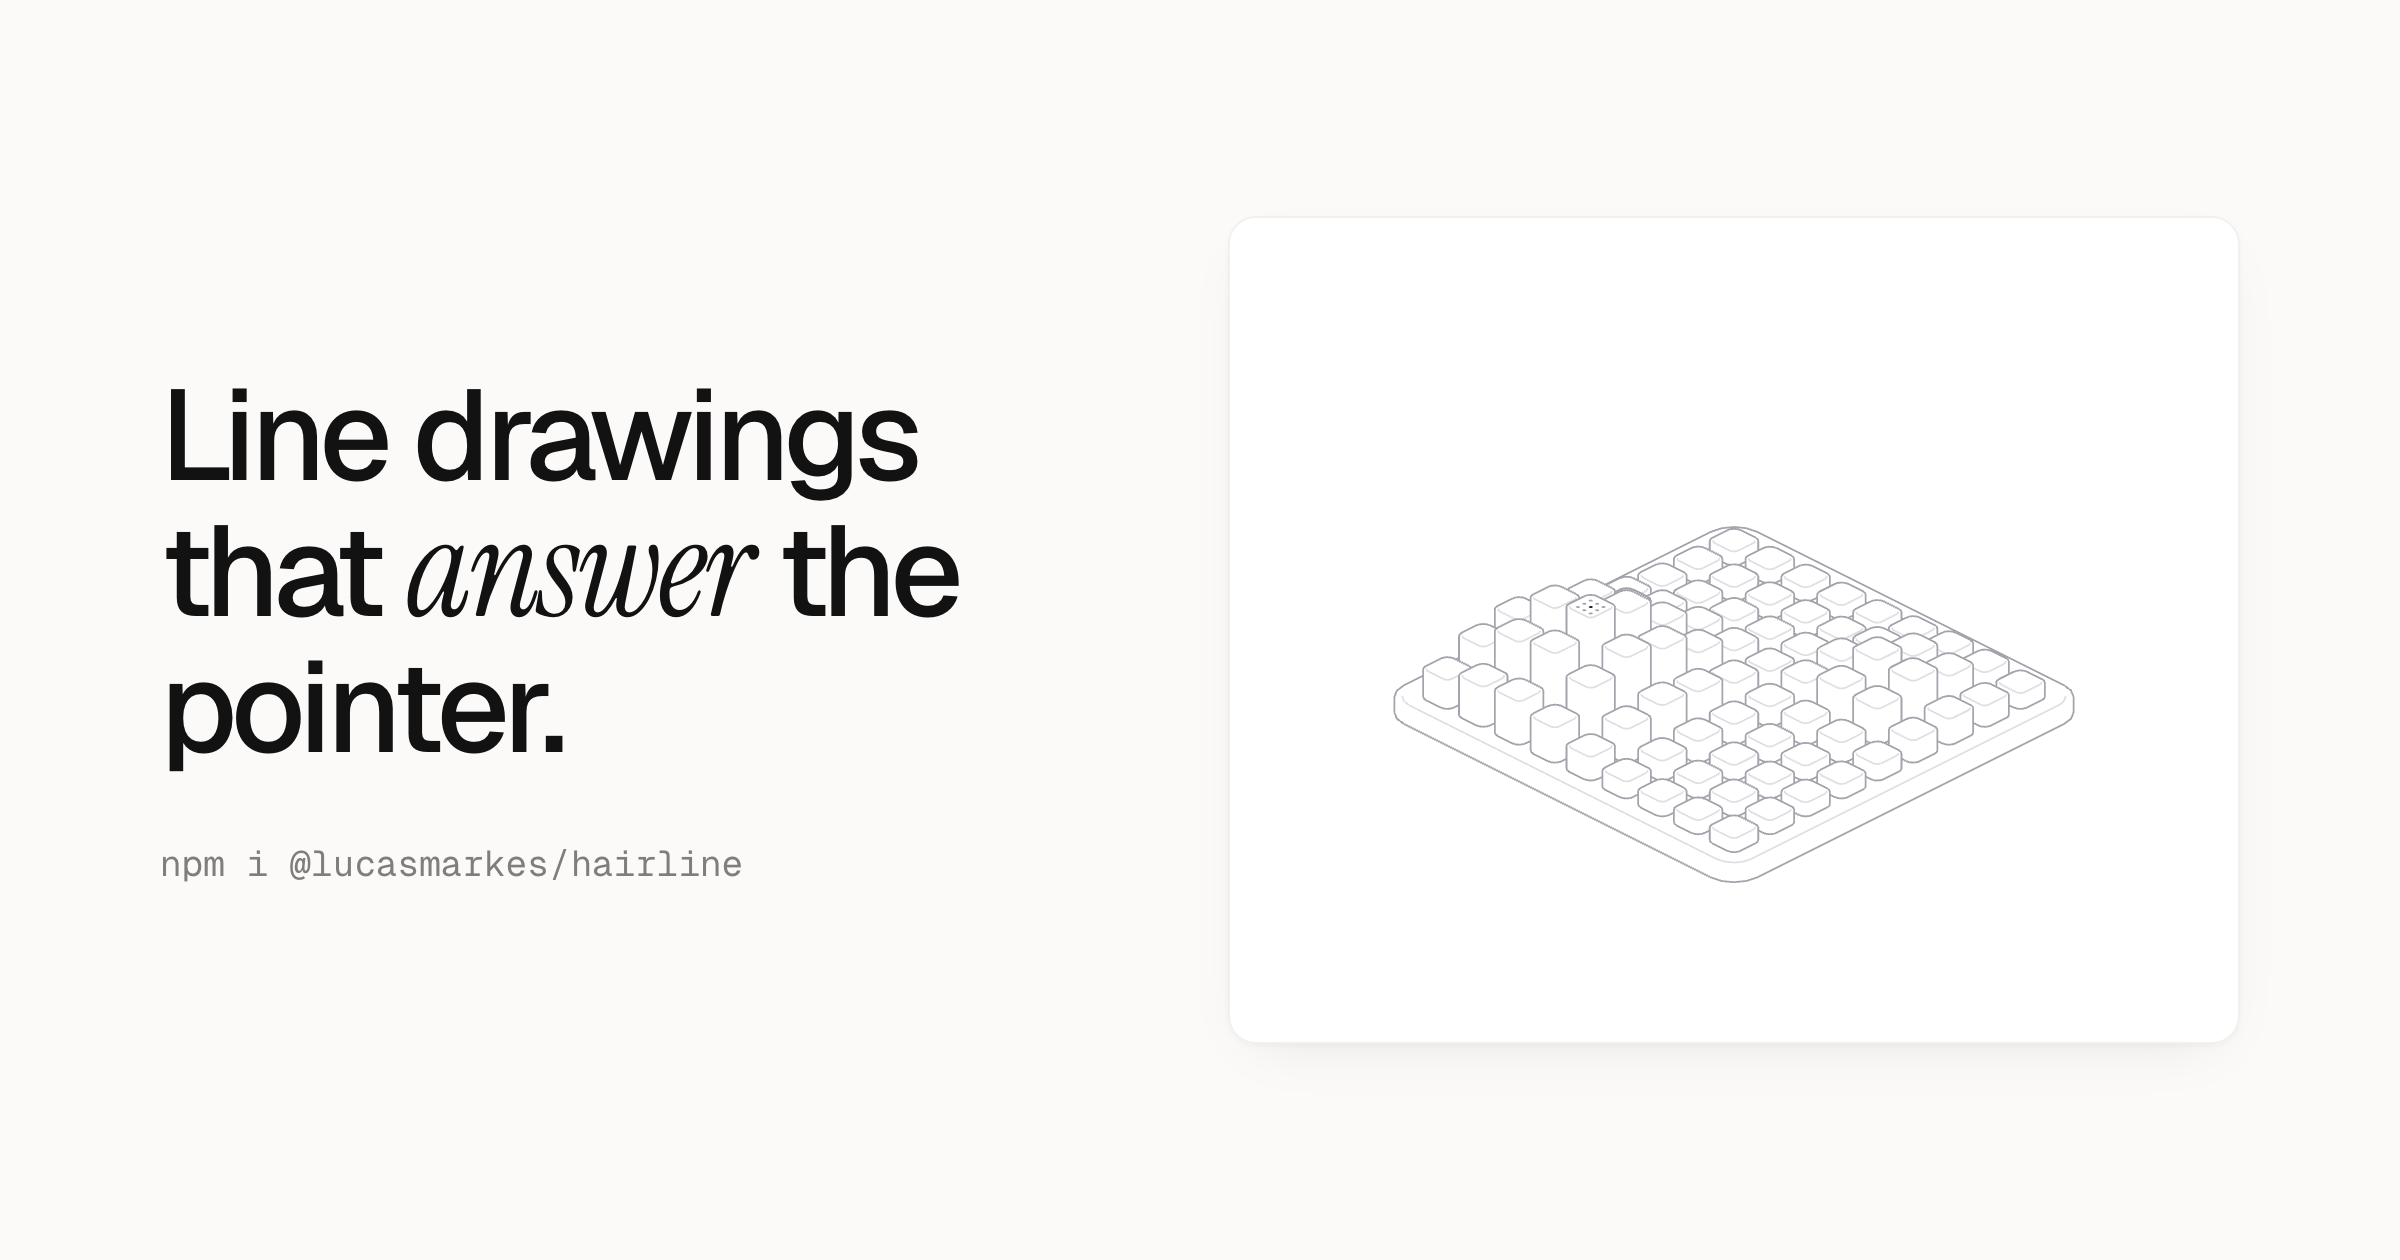
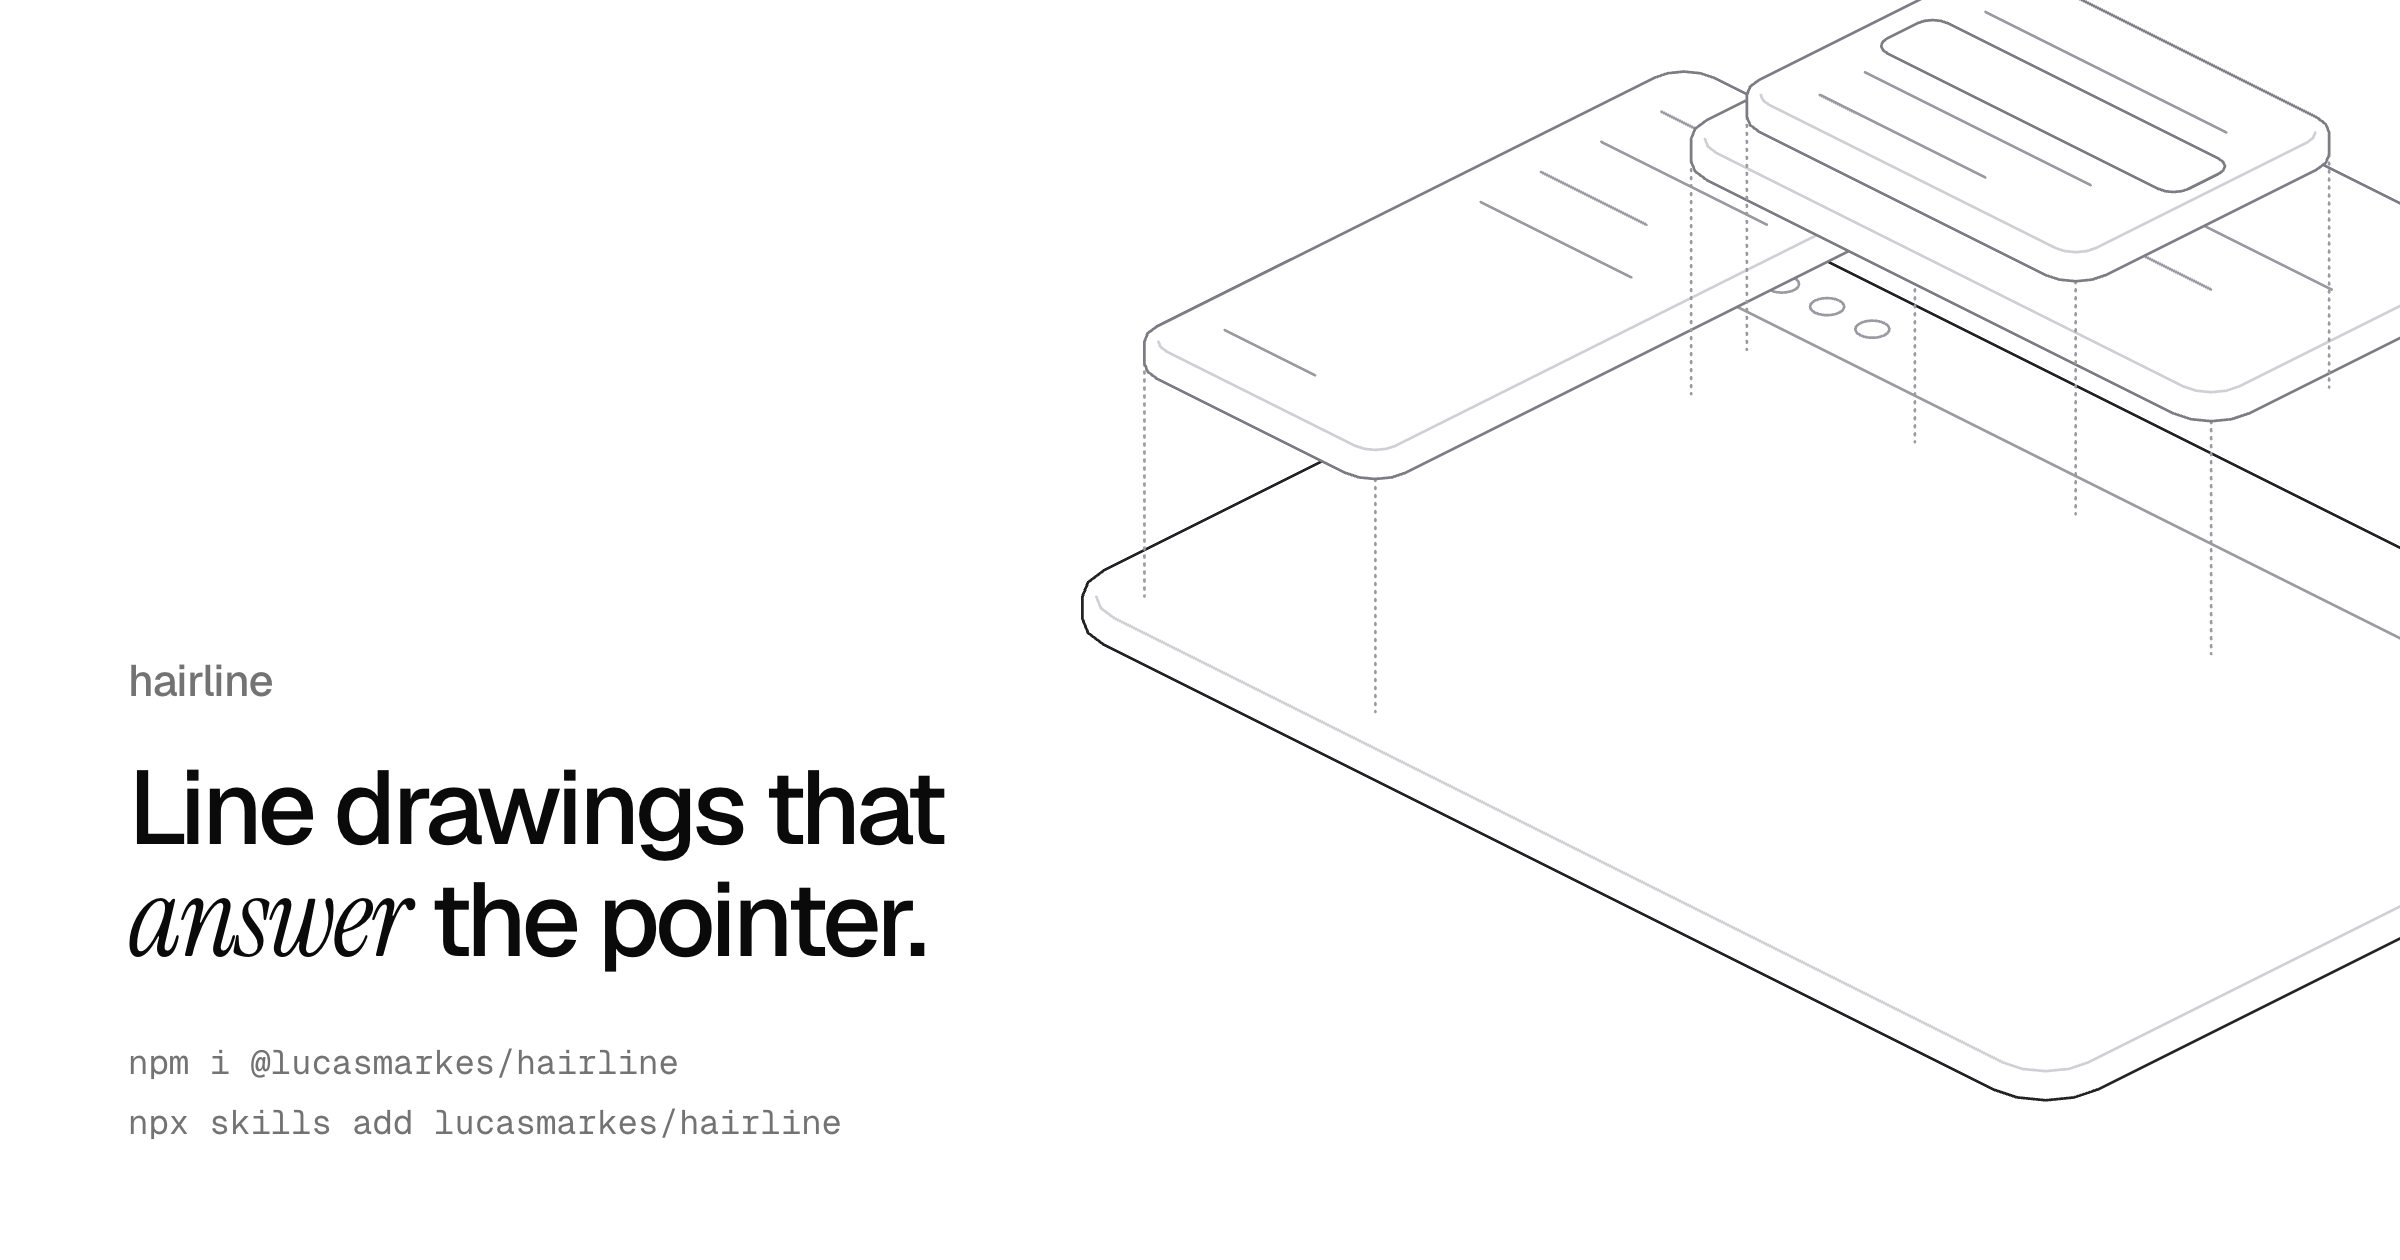
OG: the Exploded figure, its layers open, with the install commands

diff --git a/apps/site/app/og/page.tsx b/apps/site/app/og/page.tsx
@@ -1,19 +1,30 @@
+import type { CSSProperties } from "react";
 import type { Metadata } from "next";
-import { Terrain } from "@lucasmarkes/hairline/react";
+import { Exploded } from "@lucasmarkes/hairline/react";
 
-/** The Open Graph card, as a page: scripts/og.mjs photographs it at 1200 × 630 into public/og.png. */
+/** The Open Graph card, as a page: scripts/og.mjs opens the figure's layers with the pointer and photographs it at 1200 × 630 into public/og.png. */
 export const metadata: Metadata = { robots: { index: false } };
+
+/* heavier, darker lines than the site's, through the figure's public theme, so they survive a feed shrinking the card */
+const feed = { "--hairline-stroke": "1.35", "--hairline-mid": "#9a9aa2", "--hairline-lo": "#cfcfd5", "--hairline-edge": "#7c7c85" } as CSSProperties;
 
 export default function Og() {
   return (
-    <main className="flex h-[630px] w-[1200px] items-center gap-16 overflow-hidden px-20">
-      <div className="w-[470px] shrink-0">
-        <h1 className="text-[64px] font-medium leading-[1.02] tracking-[-0.045em]">
+    <main className="relative h-[630px] w-[1200px] overflow-hidden">
+      {/* far larger than the card, so it runs off the top and the right */}
+      <div className="absolute" style={{ width: 1500, left: 280, top: -520 }}>
+        <Exploded theme="light" intensity={1} style={feed} />
+      </div>
+      <div className="absolute bottom-14 left-16 w-[440px]">
+        <p className="text-[22px] font-medium tracking-[-0.02em] text-muted">hairline</p>
+        <h1 className="mt-5 text-[52px] font-medium leading-[1.02] tracking-[-0.045em]">
           Line drawings that <em className="font-serif text-[1.08em] font-normal tracking-[-0.02em]">answer</em> the pointer.
         </h1>
-        <p className="mt-8 font-mono text-[18px] text-muted">npm i @lucasmarkes/hairline</p>
+        <div className="mt-8 flex flex-col gap-1 font-mono text-[17px] text-muted">
+          <p>npm i @lucasmarkes/hairline</p>
+          <p>npx skills add lucasmarkes/hairline</p>
+        </div>
       </div>
-      <div className="tile flex-1 p-6"><Terrain /></div>
     </main>
   );
 }

diff --git a/apps/site/app/layout.tsx b/apps/site/app/layout.tsx
@@ -17,7 +17,7 @@ export const metadata: Metadata = {
   title: "hairline",
   description: DESCRIPTION,
   alternates: { canonical: "/" },
-  openGraph: { title: "hairline", description: DESCRIPTION, url: "/", siteName: "hairline", type: "website", images: [{ url: "/og.png", width: 1200, height: 630, alt: "Line drawings that answer the pointer: the Terrain figure, its pillars rising." }] },
+  openGraph: { title: "hairline", description: DESCRIPTION, url: "/", siteName: "hairline", type: "website", images: [{ url: "/og.png", width: 1200, height: 630, alt: "Line drawings that answer the pointer: the Exploded figure, its layers lifted apart, with the install commands." }] },
   twitter: { card: "summary_large_image", title: "hairline", description: DESCRIPTION, images: ["/og.png"], creator: "@lucasmarkes" },
   icons: { icon: "/icon.svg" },
 };
